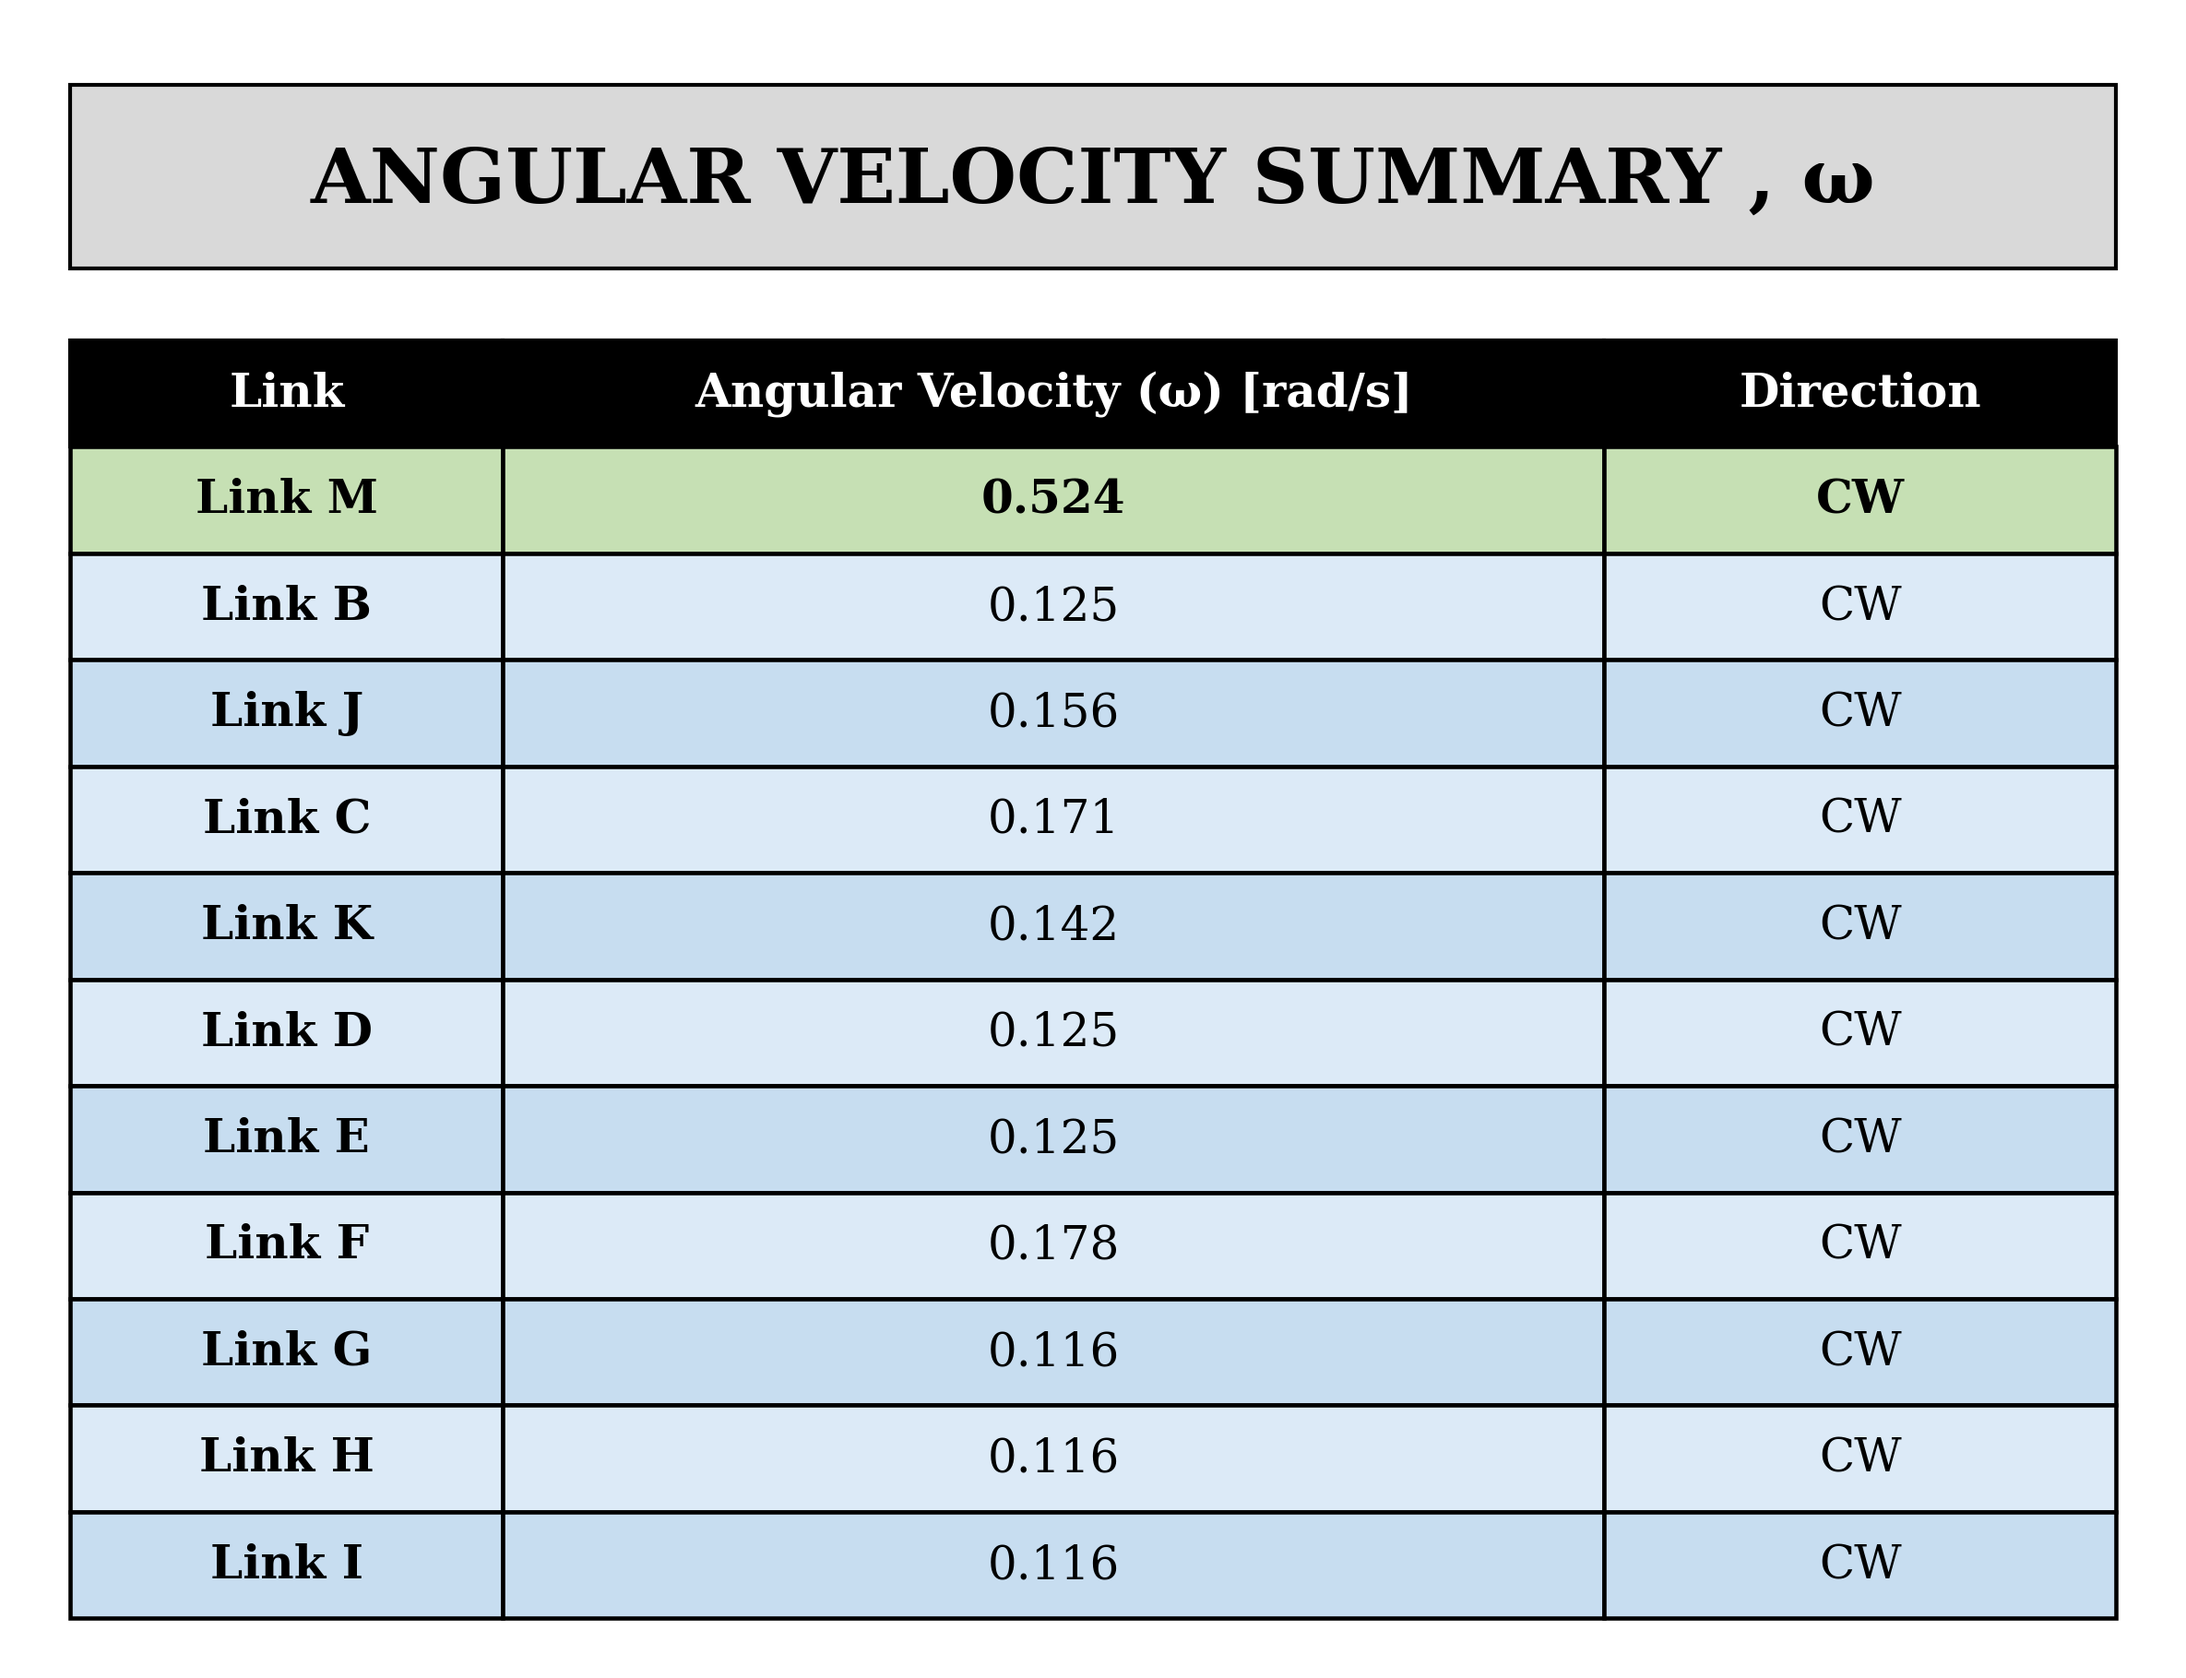
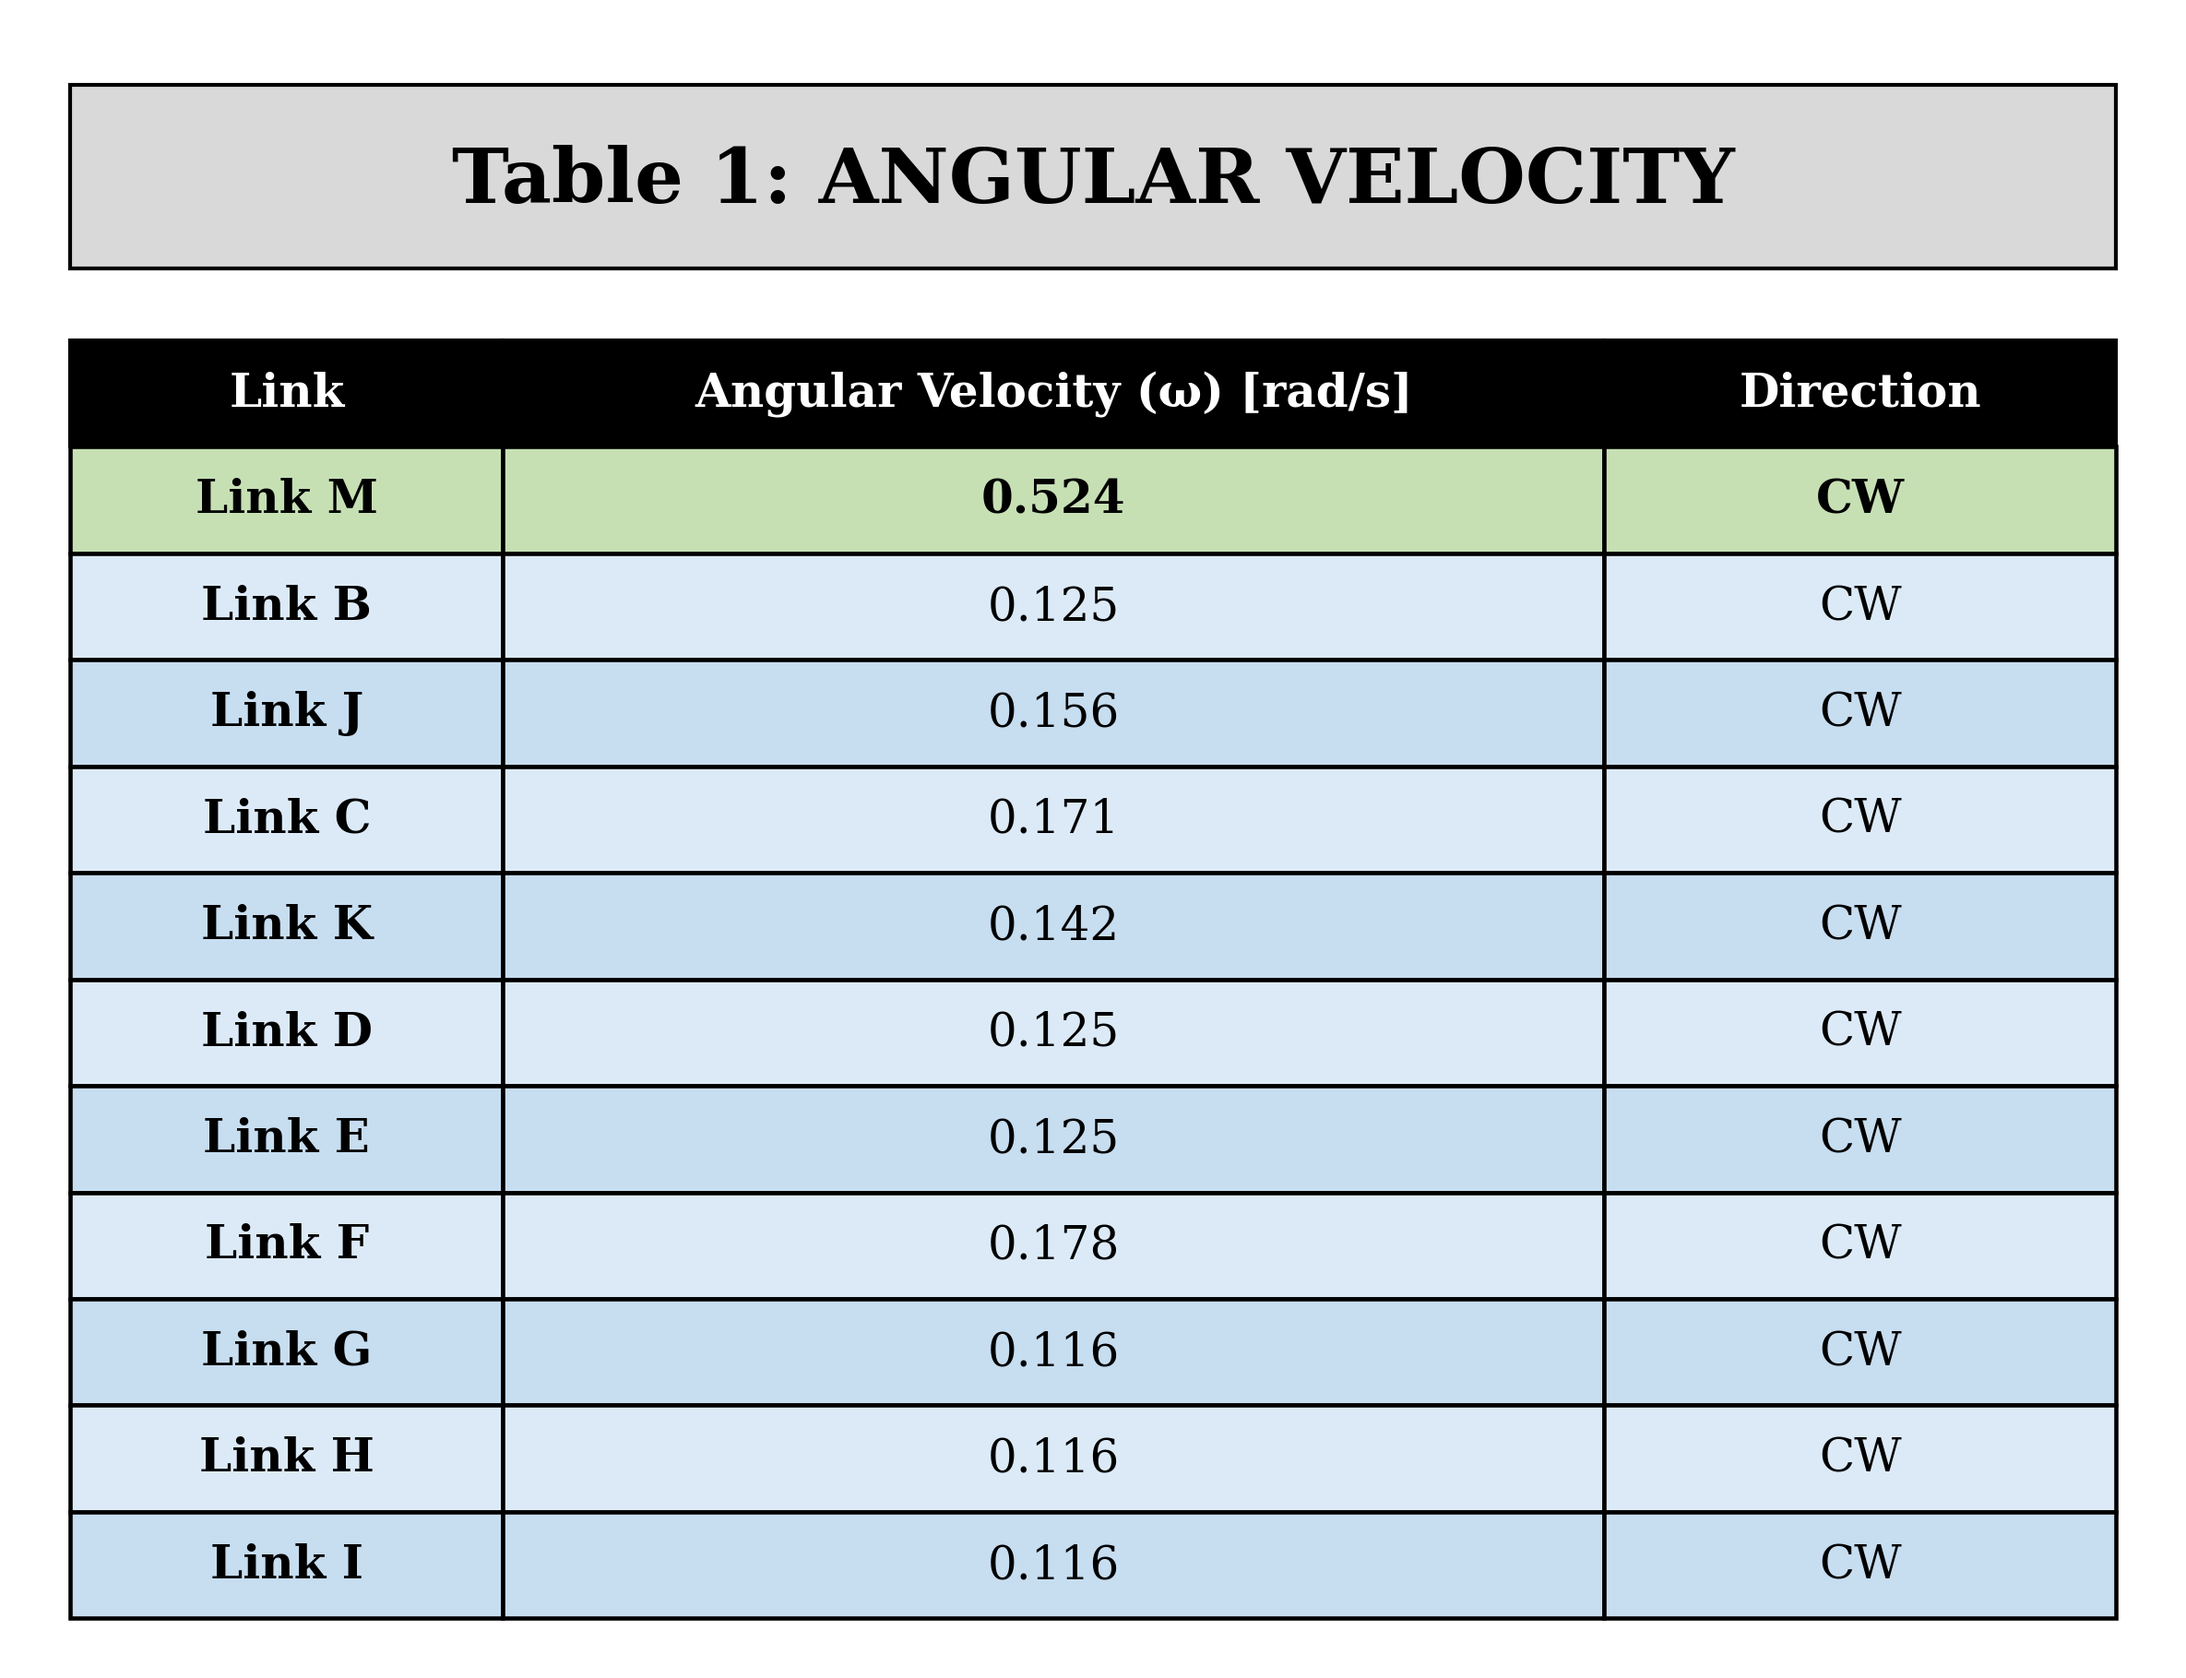
Updated tables to display as Table 1 and Table 2

Changed region(s): [[0.1249, 0.0616, 0.8743, 0.1231]]

diff --git a/lib/_Table.py b/lib/_Table.py
@@ -97,8 +97,8 @@ def get_rotation_direction(value: float, tolerance: float = 1e-9) -> str:
     """
     Determines the angular direction from the sign convection.
     
-    Positive = CCW,　↺
-    Negative = CW,  ↻
+    Positive = CCW
+    Negative = CW
     Zero = 0
     
     Args:
@@ -106,19 +106,15 @@ def get_rotation_direction(value: float, tolerance: float = 1e-9) -> str:
         tolerance (float, optional): A small threshold to consider values as zero. Defaults to 1e-9.
     
     Returns:
-        str: "CCW, ↺" for counterclockwise, "CW, ↻" for clockwise, and "0" for no rotation.
+        str: "CCW" for counterclockwise, "CW" for clockwise, and "0" for no rotation.
     """
     if value > tolerance:
         return "CCW"
     elif value < -tolerance:
         return "CW"
     else:
-        return "0"
+        return "-"
     
-    
-    
-    pass
-
 
 def create_table_figure(title: str, column_labels: list[str], table_data: list[list[str]]) -> plt.Figure:
     """
@@ -247,7 +243,7 @@ def append_angular_velocity_table(table_path: list, table_names: list, figure_nu
     
     
     # ! Create Table Figure for Angular Velocity  !
-    table_figure = create_table_figure("ANGULAR VELOCITY SUMMARY , ω", column_labels, table_data)
+    table_figure = create_table_figure(f"Table {figure_number}: ANGULAR VELOCITY", column_labels, table_data)
     
     table_figure.axes[0].set_title(title, fontsize=1, color="white")
     
@@ -312,7 +308,7 @@ def append_angular_acceleration_table(table_path: list, table_names: list, figur
     
     
     # ! Create Table Figure for Angular Acceleration  !
-    table_figure = create_table_figure("ANGULAR ACCELERATION SUMMARY , α", column_labels, table_data)
+    table_figure = create_table_figure(f"Table {figure_number}: ANGULAR ACCELERATION", column_labels, table_data)
     
     table_figure.axes[0].set_title(title, fontsize=1, color="white")
     
